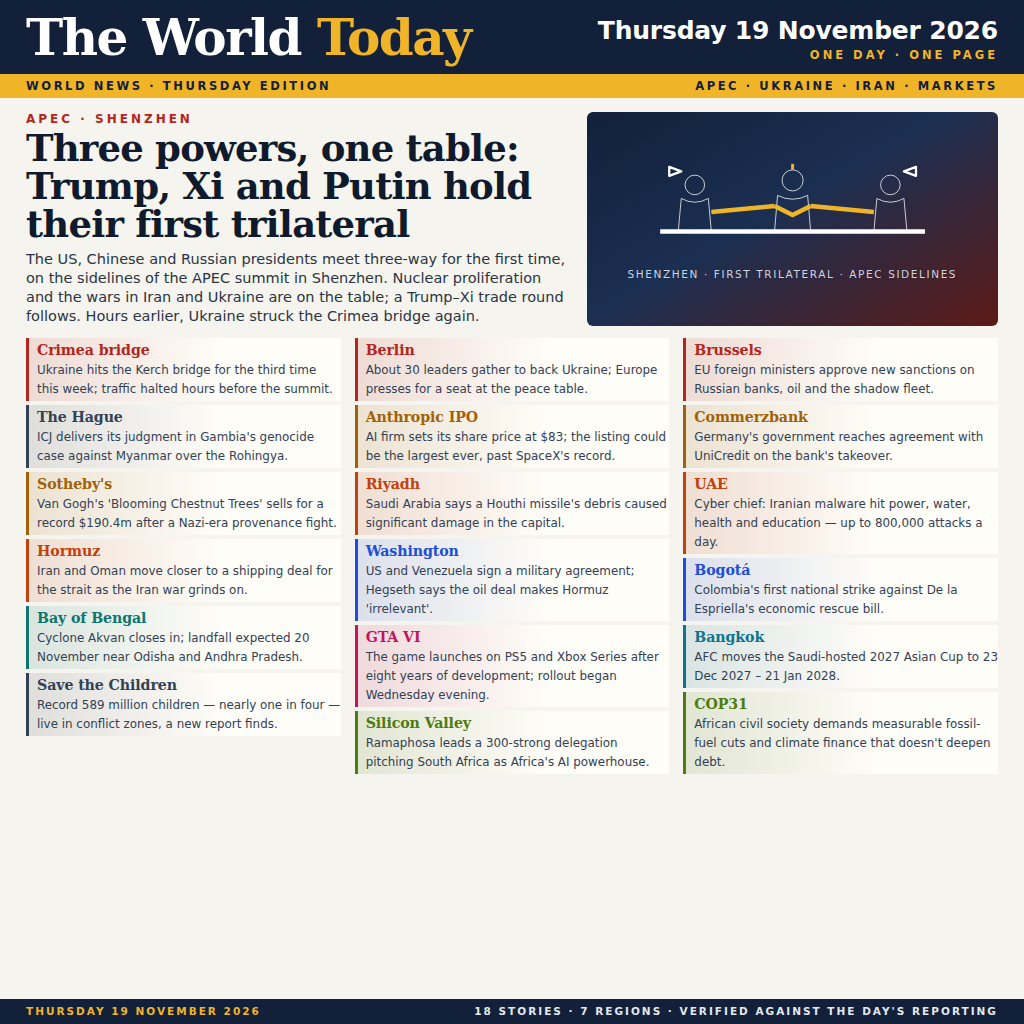
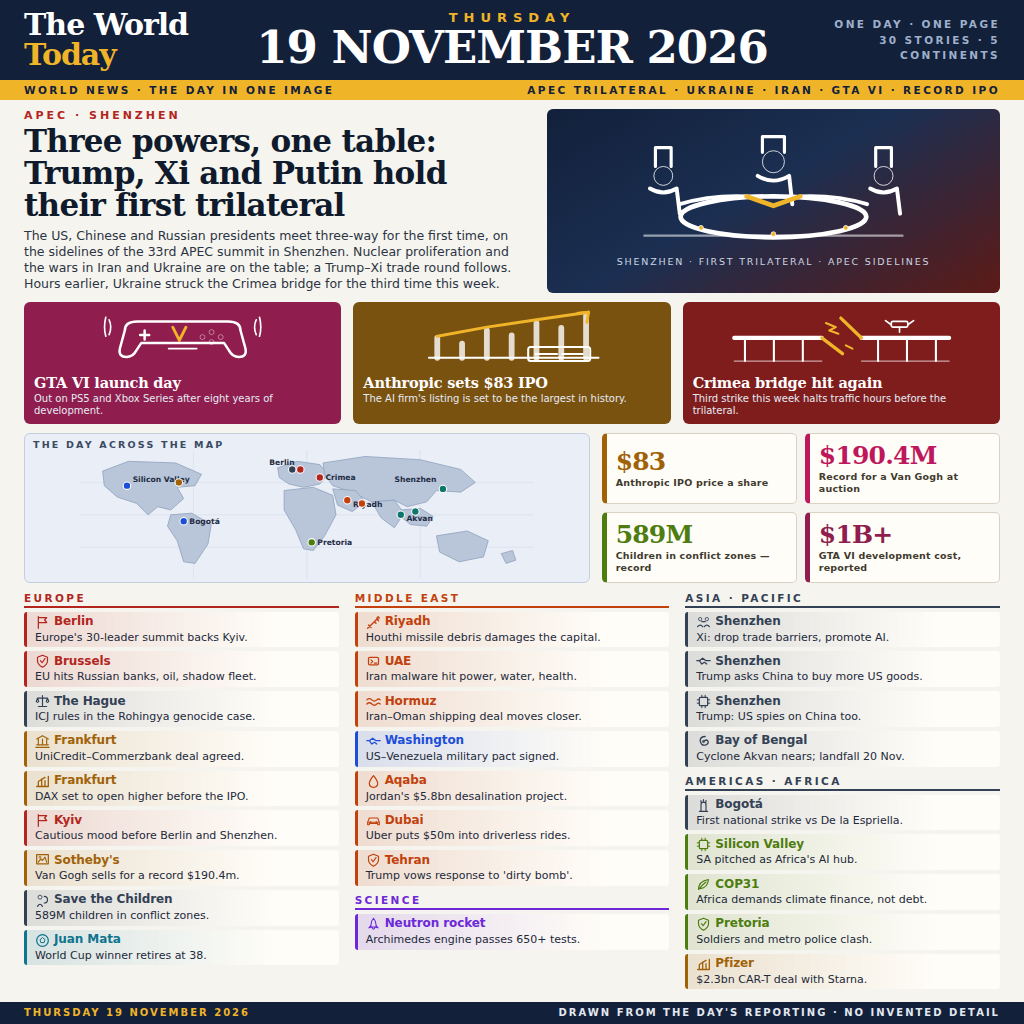
Set the page to the full 19 November edition with map, figures and illustrated cards

diff --git a/README.md b/README.md
@@ -4,7 +4,7 @@
 
 # Sum up 19 November's world news in one image
 
-This is the entry for make.fun's "Sum up 19 November's world news in one image" competition, covering the world news of Thursday 19 November 2026: a newspaper-style page with a masthead naming the day, an illustrated lead story (the first Trump–Xi–Putin trilateral at APEC in Shenzhen) and region-coloured briefs across Europe, the Middle East, the Americas, Asia, Africa and the economy. The day's stories are named in the picture itself.
+This is the entry for make.fun's "Sum up 19 November's world news in one image" competition, covering the world news of Thursday 19 November 2026. The finished page is a newspaper-style front page named "The World Today", whose masthead carries Thursday 19 November 2026 in large type. It has an illustrated lead on the first Trump–Xi–Putin trilateral at APEC in Shenzhen, three illustrated story cards (GTA VI's launch, Anthropic's $83 IPO and the third Crimea bridge strike), a world map with keyed event markers, four figure boxes and thirty briefs across Europe, the Middle East, Asia, the Americas and Africa. The day's stories are named in the picture itself.
 
 ## Run it
 
